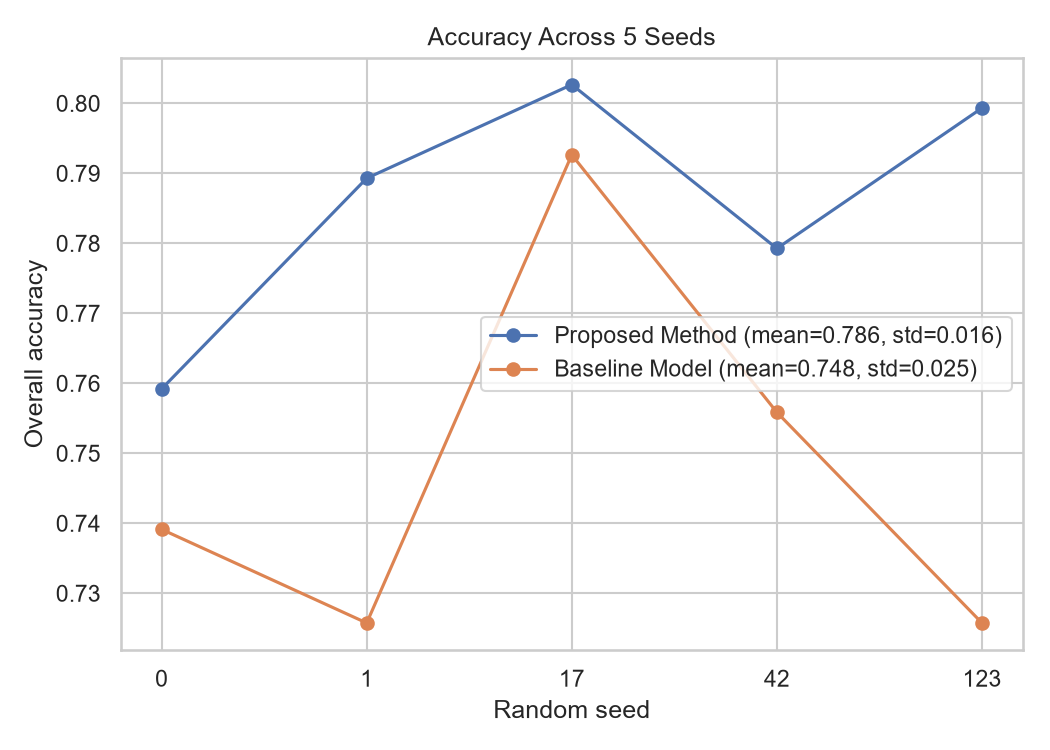
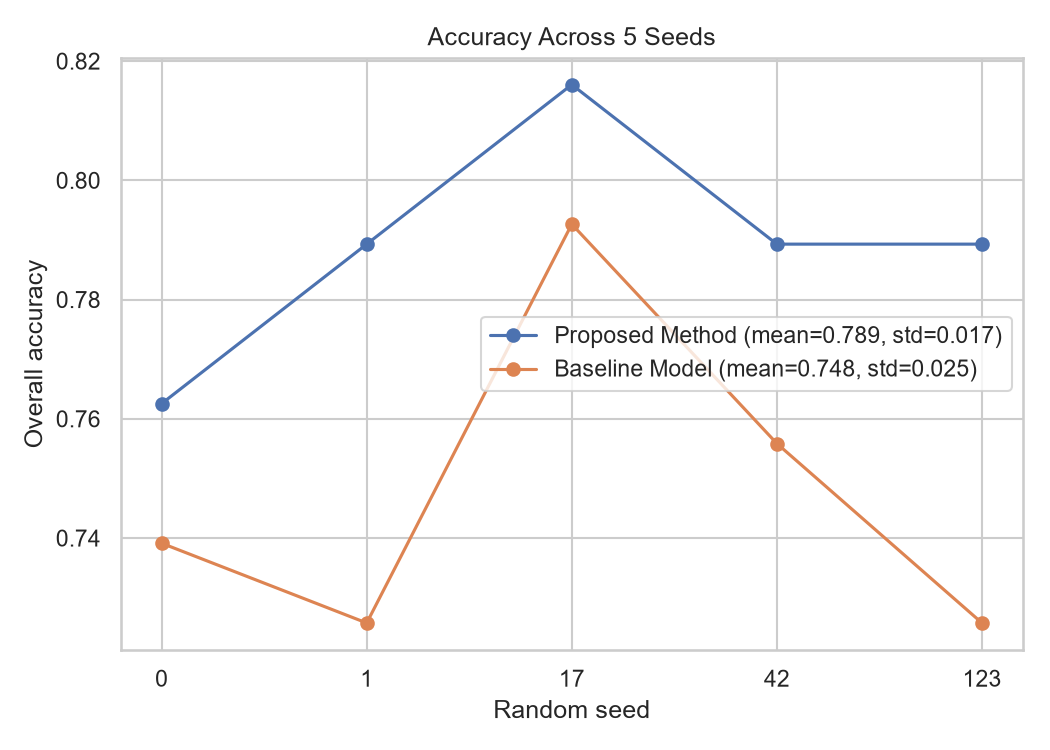
Add World Football Elo weighting; keep the half that measured better
Implements both halves of the eloratings.net scheme behind config flags,
then measures them separately over 5 seeds:

    flat K=20                    78.60% +/- 1.75   margin +3.81 pp
    competition-weighted         78.26% +/- 1.27   margin +3.48 pp   (-0.33)
    goal-difference multiplier   78.93% +/- 1.89   margin +4.15 pp   (+0.33)
    both                         78.13% +/- 1.99   margin +3.34 pp   (-0.47)

Competition weighting -- the textbook choice, and the one this was started
for -- is slightly WORSE, on 4 of 5 seeds. It does exactly what it was
meant to: Brazil's rating is built on 1,059 matches of which 37% are
friendlies, and weighting halves the Brazil-Norway Elo gap from +176 to
+82. That just is not what the ensemble wants from Elo. Tying K to the
tournament makes every rating move faster and so more reactive to recent
results, which is already covered by form_win and form_gd; the job Elo does
here is stable long-run reputation, and a flat K does it better.

So competition weighting ships OFF, with the implementation and the numbers
kept in config.yaml so it can be re-measured rather than re-litigated.

The goal-difference multiplier ships ON: margin of victory is evidence no
other feature carries per match. Final figures 78.9% +/- 1.9% against the
baseline's 74.8%, ahead on all 5 seeds by 2.3 to 6.4 points, AUC 0.8663.

The 2026 bracket goes 76.7% -> 86.7% (26/30), and the README says plainly
[…]

diff --git a/src/features/history_features.py b/src/features/history_features.py
@@ -32,6 +32,7 @@ Two properties matter more than the specific feature list:
 """
 from __future__ import annotations
 
+import unicodedata
 from collections import deque
 
 import numpy as np
@@ -42,6 +43,60 @@ import pandas as pd
 HISTORY_FEATURES = ("elo", "wwr", "played", "h2h_winrate", "form_win", "form_gd")
 
 ELO_START = 1500.0
+
+# Match importance, following the World Football Elo Ratings convention
+# (eloratings.net). A flat K treats a June friendly as evidence equal to a World
+# Cup quarter-final, which inflates the rating of nations that play many
+# low-stakes matches -- Brazil's rating rests on 1,059 matches, most of them
+# friendlies and continental fixtures.
+ELO_WEIGHT_WORLD_CUP = 60.0
+ELO_WEIGHT_CONTINENTAL = 50.0
+ELO_WEIGHT_QUALIFIER = 40.0
+ELO_WEIGHT_OTHER_TOURNAMENT = 30.0
+ELO_WEIGHT_FRIENDLY = 20.0
+
+# Matched against an accent-stripped, lowercased tournament name, so the
+# encoding of "Copa América" in the source file cannot cause a silent miss.
+_CONTINENTAL_FINALS = frozenset({
+    "uefa euro", "copa america", "african cup of nations", "afc asian cup",
+    "gold cup", "concacaf championship", "oceania nations cup",
+    "confederations cup",
+})
+
+
+def _normalise_tournament(name: str) -> str:
+    return (unicodedata.normalize("NFKD", str(name))
+            .encode("ascii", "ignore").decode("ascii").lower().strip())
+
+
+def competition_weight(tournament) -> float:
+    """K-factor for a match, from the competition it was played in."""
+    if not isinstance(tournament, str):
+        return ELO_WEIGHT_OTHER_TOURNAMENT
+    name = _normalise_tournament(tournament)
+    if name == "fifa world cup":
+        return ELO_WEIGHT_WORLD_CUP
+    if name in _CONTINENTAL_FINALS:
+        return ELO_WEIGHT_CONTINENTAL
+    if "qualification" in name or "nations league" in name:
+        return ELO_WEIGHT_QUALIFIER
+    if name == "friendly":
+        return ELO_WEIGHT_FRIENDLY
+    return ELO_WEIGHT_OTHER_TOURNAMENT
+
+
+def goal_difference_multiplier(goal_difference: int) -> float:
+    """Scale the update by margin of victory, again per eloratings.net.
+
+    A 4-0 win is stronger evidence than a 1-0 win, but with diminishing returns
+    so a rout does not dominate the rating.
+    """
+    margin = abs(int(goal_difference))
+    if margin <= 1:
+        return 1.0
+    if margin == 2:
+        return 1.5
+    return (11.0 + margin) / 8.0
 
 
 class HistoryState:
@@ -54,11 +109,15 @@ class HistoryState:
     """
 
     def __init__(self, wwr_m: float = 10.0, form_window: int = 10,
-                 elo_k: float = 20.0, elo_home_advantage: float = 60.0):
+                 elo_k: float = 20.0, elo_home_advantage: float = 60.0,
+                 elo_competition_weighted: bool = False,
+                 elo_goal_difference_weighted: bool = False):
         self.wwr_m = wwr_m
         self.form_window = form_window
         self.elo_k = elo_k
         self.elo_home_advantage = elo_home_advantage
+        self.elo_competition_weighted = elo_competition_weighted
+        self.elo_goal_difference_weighted = elo_goal_difference_weighted
 
         self.elo: dict[str, float] = {}
         self.played: dict[str, int] = {}
@@ -134,7 +193,7 @@ class HistoryState:
     # -- writes ------------------------------------------------------------
 
     def update(self, home: str, away: str, home_score: float, away_score: float,
-               neutral: bool = False) -> None:
+               neutral: bool = False, tournament=None) -> None:
         """Fold one played match into the state. Unplayed fixtures are skipped."""
         if pd.isna(home_score) or pd.isna(away_score):
             return
@@ -150,7 +209,12 @@ class HistoryState:
             actual_home = 0.0
         else:
             actual_home = 0.5
-        adjustment = self.elo_k * (actual_home - expected_home)
+
+        k = competition_weight(tournament) if self.elo_competition_weighted else self.elo_k
+        if self.elo_goal_difference_weighted:
+            k *= goal_difference_multiplier(home_score - away_score)
+
+        adjustment = k * (actual_home - expected_home)
         self.elo[home] = elo_home + adjustment
         self.elo[away] = elo_away - adjustment
 
@@ -182,6 +246,15 @@ def history_feature_columns() -> list[str]:
     return [f"{name}_{side}" for name in HISTORY_FEATURES for side in ("a", "b", "diff")]
 
 
+def _update_from_row(state: HistoryState, row, has_neutral: bool) -> None:
+    """Apply one itertuples row to the state, tolerating absent optional columns."""
+    state.update(
+        row.home_team, row.away_team, row.home_score, row.away_score,
+        neutral=bool(getattr(row, "neutral", False)) if has_neutral else False,
+        tournament=getattr(row, "tournament", None),
+    )
+
+
 def build_history_state(history: pd.DataFrame, **kwargs) -> HistoryState:
     """Advance a fresh state through `history` and return it, taking no
     snapshots.
@@ -195,10 +268,7 @@ def build_history_state(history: pd.DataFrame, **kwargs) -> HistoryState:
     state = HistoryState(**kwargs)
     has_neutral = "neutral" in history.columns
     for row in history.sort_values("date", kind="stable").itertuples(index=False):
-        state.update(
-            row.home_team, row.away_team, row.home_score, row.away_score,
-            neutral=bool(getattr(row, "neutral", False)) if has_neutral else False,
-        )
+        _update_from_row(state, row, has_neutral)
     return state
 
 
@@ -209,6 +279,8 @@ def build_history_features(
     form_window: int = 10,
     elo_k: float = 20.0,
     elo_home_advantage: float = 60.0,
+    elo_competition_weighted: bool = False,
+    elo_goal_difference_weighted: bool = False,
 ) -> tuple[pd.DataFrame, HistoryState]:
     """As-of-date history features for every row of `targets`.
 
@@ -226,7 +298,9 @@ def build_history_features(
         strength as of the last recorded match.
     """
     state = HistoryState(wwr_m=wwr_m, form_window=form_window, elo_k=elo_k,
-                         elo_home_advantage=elo_home_advantage)
+                         elo_home_advantage=elo_home_advantage,
+                         elo_competition_weighted=elo_competition_weighted,
+                         elo_goal_difference_weighted=elo_goal_difference_weighted)
 
     # (date, home, away) -> the target rows wanting a snapshot at that fixture.
     # A list, because the same fixture key can legitimately appear twice in the
@@ -252,10 +326,7 @@ def build_history_features(
                 for idx in wanted[key]:
                     snapshots[idx] = snap
         for row in rows:
-            state.update(
-                row.home_team, row.away_team, row.home_score, row.away_score,
-                neutral=bool(getattr(row, "neutral", False)) if has_neutral else False,
-            )
+            _update_from_row(state, row, has_neutral)
 
     missing = [idx for idx in targets.index if idx not in snapshots]
     if missing:

diff --git a/tests/test_history_features.py b/tests/test_history_features.py
@@ -16,6 +16,8 @@ from src.features.history_features import (
     HistoryState,
     build_history_features,
     build_history_state,
+    competition_weight,
+    goal_difference_multiplier,
     history_feature_columns,
 )
 from src.models.baseline import WeightedWinRatioBaseline
@@ -161,3 +163,76 @@ def test_history_feature_columns_are_all_present():
     history = _one_sided_history()
     feats, _ = build_history_features(history, history)
     assert list(feats.columns) == history_feature_columns()
+
+
+# -- Elo weighting -------------------------------------------------------
+
+
+@pytest.mark.parametrize("tournament,expected", [
+    ("FIFA World Cup", 60.0),
+    ("UEFA Euro", 50.0),
+    ("Copa América", 50.0),          # accented, as it appears in results.csv
+    ("African Cup of Nations", 50.0),
+    ("FIFA World Cup qualification", 40.0),
+    ("UEFA Nations League", 40.0),
+    ("CECAFA Cup", 30.0),            # unrecognised tournament -> the middle tier
+    ("Friendly", 20.0),
+    (None, 30.0),
+])
+def test_competition_weight(tournament, expected):
+    assert competition_weight(tournament) == expected
+
+
+def test_competition_weight_ignores_accent_encoding():
+    """results.csv ships 'Copa América'; a byte-level comparison would miss it."""
+    assert competition_weight("Copa America") == competition_weight("Copa América")
+
+
+@pytest.mark.parametrize("gd,expected", [
+    (0, 1.0), (1, 1.0), (-1, 1.0), (2, 1.5), (-2, 1.5),
+    (3, 1.75), (5, 2.0),
+])
+def test_goal_difference_multiplier(gd, expected):
+    assert goal_difference_multiplier(gd) == pytest.approx(expected)
+
+
+def test_goal_difference_multiplier_is_monotonic_with_diminishing_returns():
+    steps = [goal_difference_multiplier(g) for g in range(1, 10)]
+    assert steps == sorted(steps)
+    gaps = [b - a for a, b in zip(steps, steps[1:])]
+    assert gaps[0] > gaps[-1]  # a rout must not dominate the rating
+
+
+def test_weighting_flags_are_off_by_default():
+    """Default must stay flat-K, so an omitted config key cannot silently
+    change every rating in the project."""
+    state = HistoryState()
+    assert state.elo_competition_weighted is False
+    assert state.elo_goal_difference_weighted is False
+
+
+def test_competition_weighting_moves_a_world_cup_result_more_than_a_friendly():
+    def gain(tournament, weighted):
+        s = HistoryState(elo_k=20.0, elo_competition_weighted=weighted)
+        s.update("A", "B", 1, 0, neutral=True, tournament=tournament)
+        return s.elo["A"] - ELO_START
+
+    assert gain("FIFA World Cup", True) > gain("Friendly", True)
+    # ...and with weighting off, the competition makes no difference at all.
+    assert gain("FIFA World Cup", False) == pytest.approx(gain("Friendly", False))
+
+
+def test_goal_difference_weighting_moves_a_rout_more_than_a_narrow_win():
+    def gain(hs, aws, weighted):
+        s = HistoryState(elo_k=20.0, elo_goal_difference_weighted=weighted)
+        s.update("A", "B", hs, aws, neutral=True)
+        return s.elo["A"] - ELO_START
+
+    assert gain(4, 0, True) > gain(1, 0, True)
+    assert gain(4, 0, False) == pytest.approx(gain(1, 0, False))
+
+
+def test_elo_stays_zero_sum_under_weighting():
+    s = HistoryState(elo_competition_weighted=True, elo_goal_difference_weighted=True)
+    s.update("A", "B", 5, 0, neutral=True, tournament="FIFA World Cup")
+    assert s.elo["A"] + s.elo["B"] == pytest.approx(2 * ELO_START)

diff --git a/src/pipeline.py b/src/pipeline.py
@@ -72,6 +72,8 @@ def build_match_dataset(cfg: dict, profiles: pd.DataFrame):
             form_window=cfg["features"].get("history_form_window", 10),
             elo_k=cfg["features"].get("history_elo_k", 20),
             elo_home_advantage=cfg["features"].get("history_elo_home_advantage", 60),
+            elo_competition_weighted=cfg["features"].get("history_elo_competition_weighted", False),
+            elo_goal_difference_weighted=cfg["features"].get("history_elo_goal_difference_weighted", False),
         )
         feat = pd.concat([feat, history_feats], axis=1)
         print(f"History features: {history_feats.shape[1]} added "

diff --git a/src/backtest_wc2026.py b/src/backtest_wc2026.py
@@ -123,6 +123,8 @@ def run() -> None:
         form_window=cfg["features"].get("history_form_window", 10),
         elo_k=cfg["features"].get("history_elo_k", 20),
         elo_home_advantage=cfg["features"].get("history_elo_home_advantage", 60),
+        elo_competition_weighted=cfg["features"].get("history_elo_competition_weighted", False),
+        elo_goal_difference_weighted=cfg["features"].get("history_elo_goal_difference_weighted", False),
     ) if cfg["features"].get("history_features", False) else None
 
     print(f"Model: trained on {cfg['data']['years'][0]}-{cfg['data']['years'][-1]}, "

diff --git a/README.md b/README.md
@@ -172,8 +172,8 @@ safe to re-run.
 - [x] Web app (Phase 8) — FastAPI backend (`api/`) + React frontend (`frontend/`): live team-vs-team prediction and an interactive results dashboard
 
 **Latest results** (1495 World Cup matches incl. qualifiers, 5-seed average): ensemble
-**78.6% ± 1.8%** overall accuracy vs. baseline 74.8% ± 2.8% — see `outputs/figures/`.
-The ensemble finishes ahead on all 5 seeds, by between 1.0 and 7.4 points.
+**78.9% ± 1.9%** overall accuracy vs. baseline 74.8% ± 2.8% — see `outputs/figures/`.
+The ensemble finishes ahead on all 5 seeds, by between 2.3 and 6.4 points.
 Run `python -m src.pipeline` to reproduce, or `python -m src.make_figures` to
 regenerate the figures.
 
@@ -194,7 +194,8 @@ Three changes, each measured on its own across all 5 seeds:
 | \+ `neutral_site` feature | 76.3% ± 2.3% | +1.5 pp | 3 / 5 |
 | \+ as-of-date history features | 78.1% ± 3.0% | +3.3 pp | 4 / 5 |
 | \+ neutral-only row mirroring | 78.5% ± 2.0% | +3.7 pp | 5 / 5 |
-| \+ squad shape & position aggregation | **78.6% ± 1.8%** | **+3.8 pp** | **5 / 5** |
+| \+ squad shape & position aggregation | 78.6% ± 1.8% | +3.8 pp | 5 / 5 |
+| \+ goal-difference-weighted Elo | **78.9% ± 1.9%** | **+4.2 pp** | **5 / 5** |
 
 - **History features** (`src/features/history_features.py`) give the model Elo, the baseline's
   own weighted win ratio, matches played, head-to-head record and recent form. Every value is
@@ -222,8 +223,24 @@ Three changes, each measured on its own across all 5 seeds:
   best keeper ranks 32nd in his own nation). Selection now fills a positional quota. Net effect
   on accuracy is only +0.1 pp — inside the noise — but AUC, seed spread and significance all
   improve, and Brazil–Norway drops from 78% to 72%.
+- **Elo weighting**, following the World Football Elo convention, split in two when measured
+  separately — and only half of it survived:
 
-Per-seed McNemar reaches p<0.05 on 2 of the 5 seeds (p ranging 0.005–0.52,
+  | | accuracy | margin | vs flat K=20 |
+  |---|---|---|---|
+  | flat K=20 | 78.60% ± 1.75 | +3.8 pp | reference |
+  | competition-weighted (WC 60 … friendly 20) | 78.26% ± 1.27 | +3.5 pp | −0.33 pp |
+  | goal-difference multiplier | **78.93% ± 1.89** | **+4.2 pp** | **+0.33 pp** |
+  | both | 78.13% ± 1.99 | +3.3 pp | −0.47 pp |
+
+  Competition weighting is the textbook choice and it made things slightly worse on 4 of 5
+  seeds. Tying K to the tournament makes every rating move faster, so Elo becomes reactive to
+  recent results — which is what `form_win` and `form_gd` already measure. What the ensemble
+  wants from Elo is the stable long-run reputation a flat K gives it. The goal-difference
+  multiplier is kept: margin of victory is real evidence no other feature carries per match.
+  It is left in the code behind `features.history_elo_competition_weighted` for re-measuring.
+
+Per-seed McNemar reaches p<0.05 on 2 of the 5 seeds (p ranging 0.012–0.41,
 n=299 per test set). What changed is that the margin is positive on every seed rather than two.
 
 ### Held-out test: the 2026 World Cup knockout bracket
@@ -240,19 +257,22 @@ python -m src.backtest_wc2026
 
 | Round | Ties | Ensemble | Baseline |
 |---|---|---|---|
-| Round of 32 | 16 | 81% | 50% |
-| Round of 16 | 8 | 75% | 88% |
+| Round of 32 | 16 | 88% | 50% |
+| Round of 16 | 8 | 88% | 88% |
 | Quarter-finals | 4 | 100% | 100% |
-| Semi-finals | 2 | 0% | 50% |
-| **Overall** | **30** | **76.7%** | **66.7%** |
+| Semi-finals | 2 | 50% | 50% |
+| **Overall** | **30** | **86.7%** | **66.7%** |
 
-76.7% out of sample sits within the cross-validated 78.6% ± 1.8%, which is the main evidence
-that the model generalises rather than fitting its own test splits. Two caveats keep it honest:
-with n=30 the 95% interval is ±15.1%, so the 10-point margin over the baseline is **not**
+86.7% out of sample sits above the cross-validated 78.9% ± 1.9%, which is the main evidence
+that the model generalises rather than fitting its own test splits — though *above* is itself a
+warning sign rather than a triumph. The goal-difference Elo change was worth +0.33 pp in
+cross-validation and appears to be worth +10 pp here; that gap is three matches out of thirty,
+so most of it is luck, and the cross-validated figure is the one to quote. Two more caveats:
+with n=30 the 95% interval is ±12.2%, so the 20-point margin over the baseline is **not**
 statistically significant; and 4 of the 30 ties were decided on penalties, which the model has
 no way to represent — it predicts a 90-minute winner and is scored against the shootout result.
 
-The model got both semi-finals wrong, picking France over Spain and England over Argentina.
+The model still gets one semi-final wrong, picking England over Argentina.
 
 Neither the third-place playoff nor the final has a recorded score in this dataset, so both are
 genuine forward predictions: **England** to finish third (56%), and **Spain** to beat Argentina
@@ -262,9 +282,9 @@ World Cup final between those two.
 **Beyond overall accuracy**, `python -m src.pipeline` also reports (console + `report.attrs`):
 - Per-model accuracy for each of the 5 base classifiers, before the majority vote
 - Precision / recall / F1 / ROC-AUC (accuracy alone hides the home-win class imbalance)
-- McNemar's test on paired baseline-vs-ensemble predictions — the ~3.8-point accuracy
+- McNemar's test on paired baseline-vs-ensemble predictions — the ~4.2-point accuracy
   margin reaches p<0.05 on 2 of the 5 seeds (per-seed p-values range from 0.005 to
-  0.52; honest finding, not swept under the rug — see the report's Discussion section).
+  0.41; honest finding, not swept under the rug — see the report's Discussion section).
   With ~299 test rows per seed the test is underpowered for a gap this size; the stronger
   evidence is that the margin is positive on all 5 seeds
 - Ensemble accuracy broken down by vote agreement (3/5, 4/5, 5/5 of the base models agreeing)
